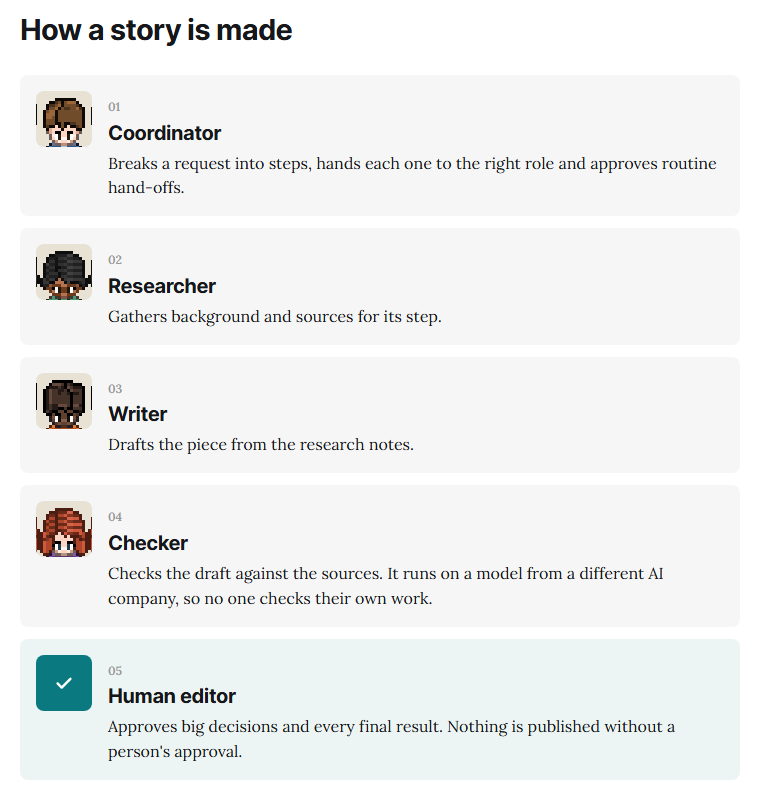
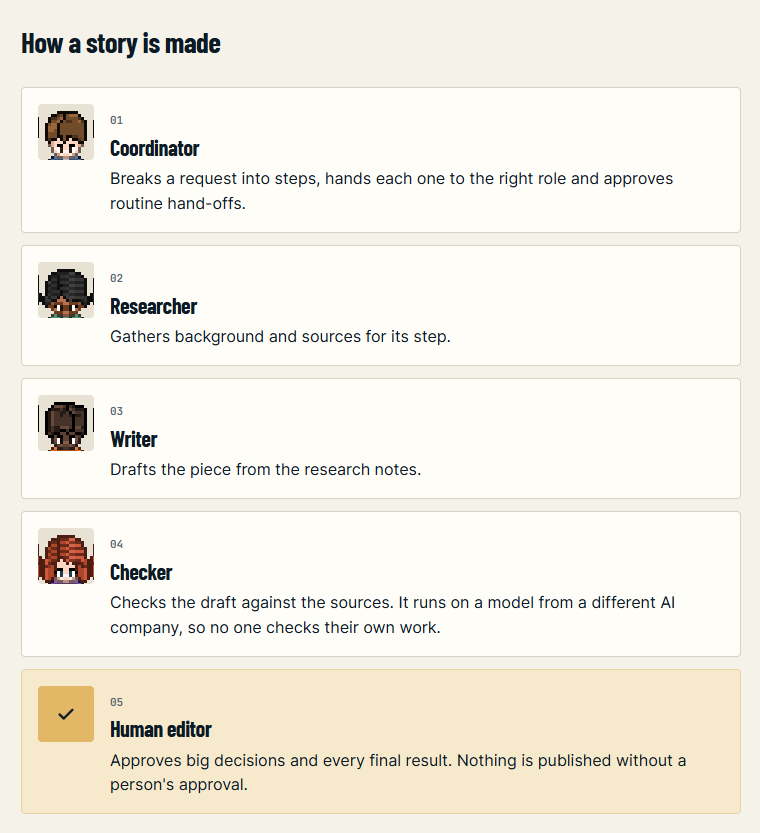
Bring the showcase up to 18 Nov: seven languages, published briefs, pitches by email
Both READMEs now describe Traditional Chinese (seven languages), TSN's own
look on top of Headline, the two Weekly Briefs and a Page post on the
website, pitches by email to a human-only inbox, the Tasmania leads trial,
and the 18 Nov test and language-check figures. New screenshots of the
public preview, a Weekly Brief page, and the poster re-rendered with the
new figures. The new fonts are listed in the third-party notices.

diff --git a/README.md b/README.md
@@ -3,14 +3,14 @@
 **English** · [简体中文](README.zh-CN.md)
 
 ![Status: preview](https://img.shields.io/badge/status-preview-B7791F)
-![Languages: 6](https://img.shields.io/badge/languages-6-0F766E)
+![Languages: 7](https://img.shields.io/badge/languages-7-0F766E)
 ![Newsroom: 4 AI agents + 1 human editor](https://img.shields.io/badge/newsroom-4%20AI%20agents%20%2B%201%20human%20editor-12343B)
 
-Tasmania Student Notes (TSN) is an independent, student-led publication for students across Tasmania, whatever they study and wherever they come from. Its website is written in six languages: English, Simplified Chinese, Bangla, Nepali, Korean and Vietnamese.
+Tasmania Student Notes (TSN) is an independent, student-led publication for students across Tasmania, whatever they study and wherever they come from. Its website is written in seven languages: English, Simplified Chinese, Traditional Chinese, Bangla, Nepali, Korean and Vietnamese.
 
 Behind it is a small newsroom of AI agents. A Coordinator, a Researcher, a Writer and a Checker take a request from Slack and work through it on one self-hosted board. The Checker runs on a different AI company's model from the other three, so no model checks its own writing. A human editor picks the stories, approves every final result and publishes by hand.
 
-This is an independent student project. It is not a University of Tasmania or Tasmanian Government publication. No stories are published on the website yet, and no student submissions are collected.
+This is an independent student project. It is not a University of Tasmania or Tasmanian Government publication. The website carries the two TSN Weekly Briefs and one Page post that the editor first published on LinkedIn. Students can pitch an idea by email to a human editor; the AI agents cannot read that inbox.
 
 The website and newsroom source, prompts, agent logs and drafts live in a private repository. This repository is a curated showcase: an account of the project, screenshots of the public preview, a poster and dated results only.
 
@@ -26,8 +26,9 @@ The website and newsroom source, prompts, agent logs and drafts live in a privat
 </table>
 
 **Website preview:** [Tasmania Student Notes](https://tas-stu-notes-preview.azurewebsites.net/)
-— six languages on Ghost's Headline theme, with page search, share links and an RSS feed per language. It opens in
-English unless you pick a language. No stories are published yet.
+— seven languages, in the look of TSN's own Weekly Brief videos on top of Ghost's Headline theme, with the published
+Weekly Briefs (captioned videos and their sources), page search, share links and an RSS feed per language. It opens in
+English unless you pick a language.
 
 **LinkedIn Page:** [Tasmania Student Notes on LinkedIn](https://www.linkedin.com/company/144045910/)
 — where the editor posts the TSN Weekly Brief, a short weekly news video. Every post is published by hand; no agent
@@ -40,9 +41,13 @@ and when, never titles or text. The page says it is a replay and never shows liv
 **How a story is made:** [the agents and the editor](https://tas-stu-notes-preview.azurewebsites.net/how-we-work/)
 — the four agents, the human editor and who approves what.
 
+**Contribute:** [send an idea by email](https://tas-stu-notes-preview.azurewebsites.net/join-in/)
+— a short pitch is enough. A human editor reads every message, nothing is published without the writer's agreement,
+and AI tools are used on a contribution only after asking.
+
 <img src="media/home-en.png" alt="Tasmania Student Notes home page, English preview" width="640">
 
-The public preview. The bar at the top says what is true today: no stories are published yet, and a human editor will approve each one before it goes out.
+The public preview. The latest Weekly Brief leads the home page; the bar at the top says the site is a preview and that a human editor approves every piece before it goes out.
 
 ## Contents
 
@@ -68,15 +73,15 @@ The public preview. The bar at the top says what is true today: no stories are p
 
 | | |
 |---|---|
-| What it is | A six-language student publication for Tasmania, with a newsroom of four AI agents in which a human editor approves every final result |
+| What it is | A seven-language student publication for Tasmania, with a newsroom of four AI agents in which a human editor approves every final result |
 | Who it is for | Students across Tasmania, whatever they study and wherever they come from |
 | The problem | What students need to know about study, work and life in Tasmania is scattered and mostly in English, and AI help that nobody checks spreads mistakes |
 | AI agents | The Coordinator, Researcher and Writer run on Claude through Claude Code; the Checker runs on OpenAI's Codex. They share a self-hosted Multica board and one locked container on the editor's computer |
 | Who decides | The Coordinator approves routine hand-offs. The editor picks the stories and approves every final result. A guard reopens anything an agent closes beyond its rights |
-| Stack | A Node.js website on Ghost's Headline theme, hosted on Azure App Service; Multica, Docker Compose, Slack, Claude Code and OpenAI Codex for the newsroom; Pixel Agents art and The Roving Office simulation for the office |
-| Evidence | 46 automated newsroom tests, a six-language check on every build, a tiered-approval pilot and a real-news rehearsal with two check rounds |
-| Material | Pilot runs used fictional material; one rehearsal used real public news and was not published. No student data is held |
-| Status | A preview website and a private newsroom pilot. Not a running publication yet |
+| Stack | A Node.js website on Ghost's Headline theme with TSN's own look, hosted on Azure App Service; Multica, Docker Compose, Slack, Claude Code and OpenAI Codex for the newsroom; Pixel Agents art and The Roving Office simulation for the office |
+| Evidence | 50 automated newsroom tests, a seven-language check on every build, a tiered-approval pilot and a real-news rehearsal with two check rounds |
+| Material | Pilot runs used fictional material; one rehearsal used real public news and was not published. The agent newsroom holds no student data |
+| Status | A preview website with two published Weekly Briefs, and a private newsroom pilot that has not yet produced a published issue |
 
 ## The problem
 
@@ -95,12 +100,12 @@ Tasmania Student Notes builds those answers into how the newsroom and the websit
 
 | Role | The question they need answered | What TSN shows them |
 |---|---|---|
-| Student reader | Is there something here for me, in a language I read well? | Six complete languages; sections on technology and AI, student voices, study to work and life in Tasmania; an RSS feed per language |
-| Would-be contributor | Can I share an idea without a finished article? | A Contribute page on how a question, a project or a view can become a story. Submissions are not open yet |
+| Student reader | Is there something here for me, in a language I read well? | Seven languages; the Weekly Brief as a captioned video with its sources; sections on technology and AI, student voices, study to work and life in Tasmania; an RSS feed per language |
+| Would-be contributor | Can I share an idea without a finished article? | A Contribute page that asks for a short pitch by email and says what happens next: a human editor reads it, and nothing is published without the writer's agreement |
 | Human editor | What did each agent do, and what is waiting for me? | One board on which every step is attributed to an agent, a Blocked status when a choice is needed, a summary at the end and a private live office view |
 | Reviewer of the project | Is the AI work checked, and labelled honestly? | A Checker on another company's model, a guard outside the agents' reach, and replays that say they are replays |
 
-These roles describe the intended audience. No stories are published and no student has contributed yet.
+These roles describe the intended audience. Pitches by email opened on 18 November 2026.
 
 ## One story, start to finish
 
@@ -134,18 +139,24 @@ In the rehearsal the first check marked three claims overstated and one figure u
 
 | | |
 |---|---|
-| ![The four AI agents and the human editor](media/how-a-story-is-made-en.png) | ![The site on a phone in English, Simplified Chinese and Bangla](media/languages-phone.png) |
-| **How a story is made.** The four agents, the editor, and who approves what | **On a phone.** English, Simplified Chinese and Bangla, three of the six languages |
+| ![The four AI agents and the human editor](media/how-a-story-is-made-en.png) | ![The site on a phone in English, Traditional Chinese and Bangla](media/languages-phone.png) |
+| **How a story is made.** The four agents, the editor, and who approves what | **On a phone.** English, Traditional Chinese and Bangla, three of the seven languages |
+
+<img src="media/weekly-brief-en.png" alt="TSN Weekly Brief issue 2 on the website: title, summary and the captioned video" width="640">
+
+**A published Weekly Brief.** The video with English captions, then each story with its takeaway, and the sources. Titles and summaries are in all seven languages; the stories are in English for now, and the other languages say so.
 
 <img src="media/terms-en.png" alt="Excerpt from the site's terms: copyright and what you may not do" width="520">
 
-**Terms and privacy.** All rights reserved; no accounts, ads, analytics or cookies.
+**Terms and privacy.** All rights reserved; no accounts, ads, analytics or cookies; emails are kept only to reply and are deleted on request.
 
 ## What works today
 
 | Capability | Status | Evidence |
 |---|---|---|
-| Six-language website | Live on the preview | 15 pages on Ghost's Headline theme (MIT). A check on every build confirms 121 fields in all six languages |
+| Seven-language website | Live on the preview | 19 pages on Ghost's Headline theme (MIT) with TSN's own look. A check on every build confirms 173 fields in all seven languages |
+| Published Weekly Briefs | Live on the preview | Issues 1 and 2 and the "Meet the newsroom" post, first published by the editor on LinkedIn: captioned videos, stories and sources. The stories are in English for now |
+| Contributions by email | Live on the preview | A Contribute page asks for a short pitch by email. Only the editor reads that inbox; the agents cannot |
 | Search, sharing and RSS | Live on the preview | Page search (the magnifier or Ctrl+K), a share panel whose links open only on a visitor's click, and one RSS feed per language |
 | Terms and privacy | Live on the preview | All rights reserved; no accounts, ads, analytics or cookies. An AI-assisted draft that a lawyer has not yet checked |
 | Pixel office replays | Live on the preview | Four recorded runs, each labelled by its material. The public site has no live-event route |
@@ -153,8 +164,9 @@ In the rehearsal the first check marked three claims overstated and one figure u
 | Tiered approval and guard | Tested locally | The Coordinator may close only sub-steps; a guard reopens anything else an agent closes |
 | Cross-company check | Tested locally | The Checker on OpenAI's Codex labels each claim, with at most two rounds of fixes |
 | Weekly news brief workflow | Rehearsed once | A shared playbook for research, writing and checking; one rehearsal on real news, not published |
+| Tasmania leads | Tried once | Before research starts, a script on the editor's computer gathers the week's Tasmanian news items and the Premier's media releases into a list of leads for the Researcher. Leads, never sources |
 | Private live office | Tested locally | Follows the board in real time on the editor's computer only; a recorder keeps sanitised movements |
-| Submissions, accounts and a content system | Planned | Not built |
+| Upload form, contributor accounts and a content system | Planned | Not built; pitches come by email |
 
 ## Design principles
 
@@ -165,7 +177,7 @@ In the rehearsal the first check marked three claims overstated and one figure u
 - **Agents cannot reach out.** No agent can post, email or contact anyone, and no automation opens LinkedIn.
 - **Closing work is the editor's.** A guard outside the agents' reach reopens any main task an agent closes.
 - **Replays say they are replays.** Recordings keep only movements, a person reviews each one, and the public office never presents them as live work.
-- **Every language, or none.** A change to visitor-facing text ships only when all six languages are updated.
+- **Every language, or a clear notice.** A change to the site's text ships only when all seven languages are updated. A published piece whose stories are not translated yet says so in each language.
 - **Reuse before building.** The theme, the office art, the office simulation and the board are maintained open-source work, used under their licences.
 
 ## Real material and fictional material
@@ -174,9 +186,9 @@ In the rehearsal the first check marked three claims overstated and one figure u
 |---|---|---|
 | Pilot runs, 13 Nov 2026 (three public replays) | Fictional tasks written for the test | No |
 | News brief rehearsal, 15 Nov 2026 (fourth public replay) | Real public news, chosen by the editor | No |
-| TSN Weekly Brief issues 1 and 2 (5 and 14 Nov 2026) | Real public news | Yes, posted by the editor on the project's LinkedIn Page. Issue 1 was made by one Claude Code session; issue 2 was written by one session and checked by a separate one in two rounds. Neither went through the agent newsroom |
+| TSN Weekly Brief issues 1 and 2 (5 and 14 Nov 2026) | Real public news | Yes, posted by the editor on the project's LinkedIn Page, and on the website since 18 Nov 2026. Issue 1 was made by one Claude Code session; issue 2 was written by one session and checked by a separate one in two rounds. Neither went through the agent newsroom |
 
-No student data is held anywhere in the project.
+The agent newsroom holds no student data. Pitches sent by email stay in an inbox that only the editor reads.
 
 ## How it was built
 
@@ -191,6 +203,7 @@ As project owner, I set the publication's scope and the line between public and 
 | 13 Nov 2026 | First Slack-to-board run; tiered approval and the guard; a private live office view, a recorder and the first public replays; the site rebuilt on Ghost's Headline theme; a terms and privacy page; deployed to the Azure preview |
 | 14 Nov 2026 | TSN Weekly Brief issue 2, posted by the editor |
 | 15 Nov 2026 | A shared playbook for the Weekly Brief; web access for the Researcher and the Checker only; the first real-news rehearsal through the agents; a fourth public replay |
+| 18 Nov 2026 | Traditional Chinese, making seven languages; TSN's own look, taken from the Weekly Brief videos; the two Weekly Briefs and a Page post on the website; pitches by email; Tasmania leads for the Researcher, tried once; deployed to the Azure preview |
 
 ## Problems that became rules
 
@@ -202,15 +215,18 @@ As project owner, I set the publication's scope and the line between public and 
 | The Checker wrote its hand-off mention in the wrong form, and the run stalled for about ten minutes until the editor stepped in | Every agent now copies the mention exactly as given |
 | In Weekly Brief issue 2, sources disagreed on when an outage began | The playbook says: when sources disagree, say so and use the safer wording |
 | The replay export labelled every run as fictional, but the 15 Nov rehearsal used real news | Each replay now records its material, and the public office names it |
+| The Premier's media-release site refused the agents' web tools | The editor's computer fetches the week's releases before research starts and attaches them as leads |
+| The home page looked like an empty newspaper: a news theme with no stories in it | Published pieces now lead the home page, in the look readers already know from the Weekly Brief videos |
 
 ## Technology stack
 
-- Website: Node.js with no framework, a page generator, Ghost's Headline theme (MIT), Inter and Lora fonts
+- Website: Node.js with no framework, a page generator, Ghost's Headline theme (MIT) under TSN's own styles; Inter, Barlow Condensed and JetBrains Mono fonts, self-hosted
+- Video: 720p MP4 with WebVTT captions, loaded only when a visitor presses play
 - Hosting: Azure App Service, free tier, deployed as a ZIP of exactly the files the server serves
 - Newsroom: a self-hosted Multica board with PostgreSQL, Docker Compose and Slack
 - Agents: Claude Code (Coordinator, Researcher, Writer) and OpenAI Codex (Checker)
 - Office: Pixel Agents art (MIT) and The Roving Office simulation (Apache-2.0)
-- Checks: Node's built-in test runner, a six-language completeness check and a guard service
+- Checks: Node's built-in test runner, a seven-language completeness check and a guard service
 
 More detail: [How the newsroom works](docs/how-the-newsroom-works.md).
 
@@ -220,11 +236,11 @@ Dated checks, not claims of a production newsroom:
 
 | Check | Result | What it shows |
 |---|---|---|
-| Newsroom tests, 15 Nov 2026 | 46 of 46 passed | Rules for the guard, the office feed, the recorder and the replay export behave as written. The code is private |
-| Language check, 15 Nov 2026 | 121 site fields and 59 office phrases complete in six languages, across 15 pages | Every language is complete and current. It does not prove translation quality |
+| Newsroom tests, 18 Nov 2026 | 50 of 50 passed | Rules for the guard, the office feed, the recorder, the replay export and the Tasmania leads behave as written. The code is private |
+| Language check, 18 Nov 2026 | 173 site fields and 59 office phrases complete in seven languages, across 19 pages | Every language is complete and current. It does not prove translation quality |
 | News brief rehearsal, 15 Nov 2026 | From a Slack request to the Coordinator's summary in about 25 minutes. Check round 1: 3 claims overstated, 1 unverified; round 2: all 19 supported | The agents can carry a real news task from start to finish while the editor chooses the stories. It was one rehearsal; nothing was published |
 | Tiered-approval pilot, 13 Nov 2026 | Three Coordinator approvals in about 90 seconds; the guard reverted nothing | The agents followed the approval rules on fictional material. It was a short pilot, not sustained operation |
-| Public preview, 13–15 Nov 2026 | Pages, feeds and replays answered; write requests were refused; the live-event route is absent; no cookies are set | The public site is read-only and cannot show live work |
+| Public preview, 13–18 Nov 2026 | Pages, feeds, videos and replays answered; write requests were refused; the live-event route is absent; no cookies are set | The public site is read-only and cannot show live work |
 
 ## Security and boundaries
 
@@ -234,11 +250,13 @@ Dated checks, not claims of a production newsroom:
 - The guard corrects after the fact; it cannot stop an action in advance.
 - The board and the live office view listen only on the editor's computer. Nothing in the newsroom is reachable from the internet.
 - The public website does not connect to the newsroom. It accepts no writes and receives only replay files that a person has exported and checked.
+- Pitches arrive by email in an inbox the agents have no access to.
 - The non-English text is AI-assisted and still needs review by native speakers, and the terms page still needs a lawyer's review.
 
 ## What is not finished
 
-- No stories are published on the website, and submissions are not open.
+- Published stories are in English for now; their titles and summaries are translated.
+- Contributions come by email only: there is no upload form, account or content system yet.
 - The newsroom has run short pilots on fictional material and one rehearsal on real news. It has not yet produced a published issue.
 - All four agents share one container; a container for each role is planned.
 - Web access is not limited to a list of approved sites.
@@ -262,4 +280,4 @@ This repository contains no source code, drafts, student submissions, contact li
 
 © 2026 Tasmania Student Notes. All rights reserved; see [LICENSE](LICENSE). Without written permission, nothing in this repository may be copied, republished or adapted, and the project's code and design may not be rebuilt, whether by hand, with automated tools or with AI cloning tools. The code may not be reverse engineered except where the law allows, and the content may not be scraped, bulk-downloaded or used to train or evaluate AI models. Uses the law already allows, such as fair dealing for review or news reporting, are not affected. Sharing links is welcome. Uses permitted by law, and GitHub's own viewing and forking permissions, still apply.
 
-The site reuses open-source work that keeps its own licence: the Headline theme by Ghost (MIT), Pixel Agents art (MIT), The Roving Office simulation (Apache-2.0) and the Inter and Lora fonts (SIL Open Font License). See [THIRD_PARTY_NOTICES.md](THIRD_PARTY_NOTICES.md) and `third_party/`. Terms, licences and privacy: [terms page](https://tas-stu-notes-preview.azurewebsites.net/terms/).
+The site reuses open-source work that keeps its own licence: the Headline theme by Ghost (MIT), Pixel Agents art (MIT), The Roving Office simulation (Apache-2.0) and the Inter, Lora, Barlow Condensed and JetBrains Mono fonts (SIL Open Font License). See [THIRD_PARTY_NOTICES.md](THIRD_PARTY_NOTICES.md) and `third_party/`. Terms, licences and privacy: [terms page](https://tas-stu-notes-preview.azurewebsites.net/terms/).

diff --git a/THIRD_PARTY_NOTICES.md b/THIRD_PARTY_NOTICES.md
@@ -12,6 +12,7 @@ included for the parts visible in the images.
 | [Pixel Agents](https://github.com/pixel-agents-hq/pixel-agents) | Pixel-art office, furniture and characters | MIT | commit `4dd14d6` | [third_party/pixel-agents/LICENSE](third_party/pixel-agents/LICENSE) |
 | [The Roving Office](https://github.com/atlassian-labs/roving-office) by Atlassian Labs | Office simulation logic and language table | Apache-2.0 | commit `f3c51c8` (package 0.15.7) | [LICENSE](third_party/roving-office/LICENSE), [NOTICE](third_party/roving-office/NOTICE) |
 | Inter and Lora fonts, as bundled with Headline | Text in the screenshots and poster | SIL Open Font License 1.1 | as bundled with Headline | not redistributed here |
+| [Barlow Condensed](https://github.com/jpt/barlow) and [JetBrains Mono](https://github.com/JetBrains/JetBrainsMono) fonts, from Fontsource 5.3.0 | Headings and labels in the screenshots | SIL Open Font License 1.1 | Fontsource 5.3.0 | not redistributed here |
 
 Notes:
 

diff --git a/docs/how-the-newsroom-works.md b/docs/how-the-newsroom-works.md
@@ -19,7 +19,7 @@ flowchart TB
         O[Office feed and recorder]
     end
     subgraph Public[Public preview]
-        W[Website, six languages]
+        W[Website, seven languages]
         R[Pixel office replays]
     end
     S --> M
